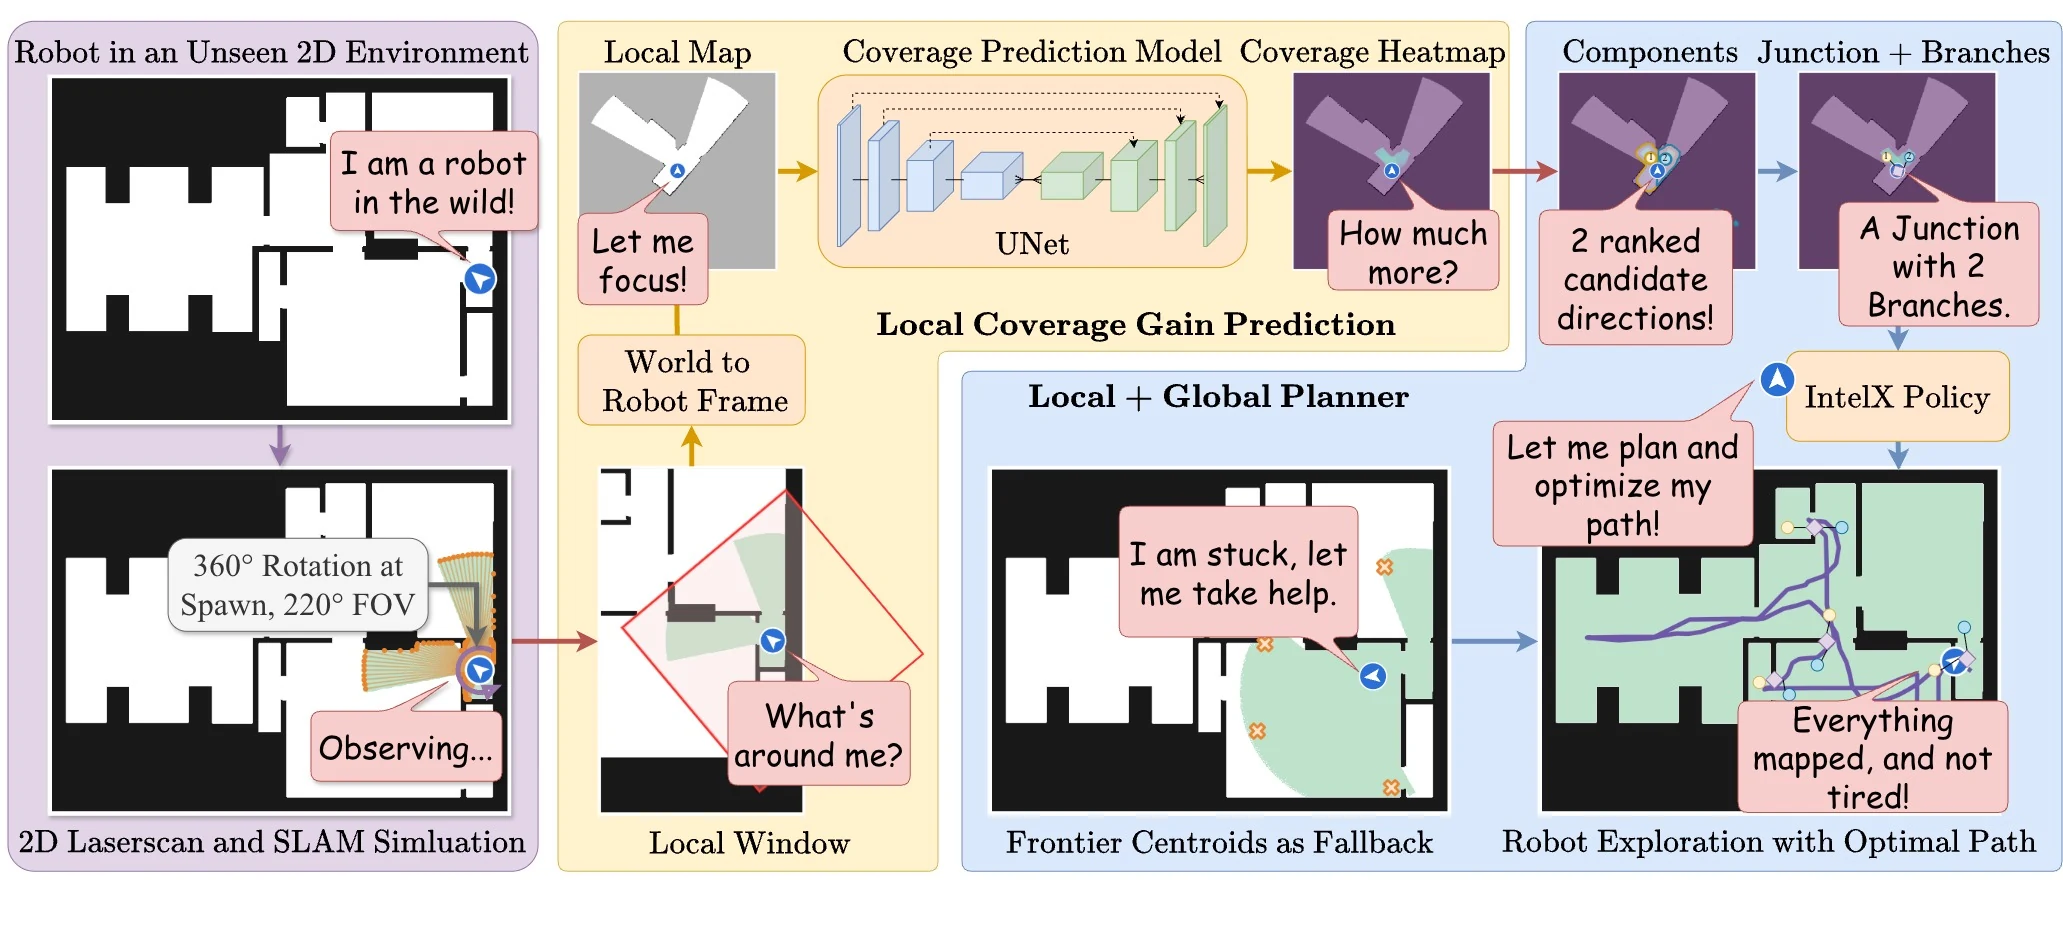
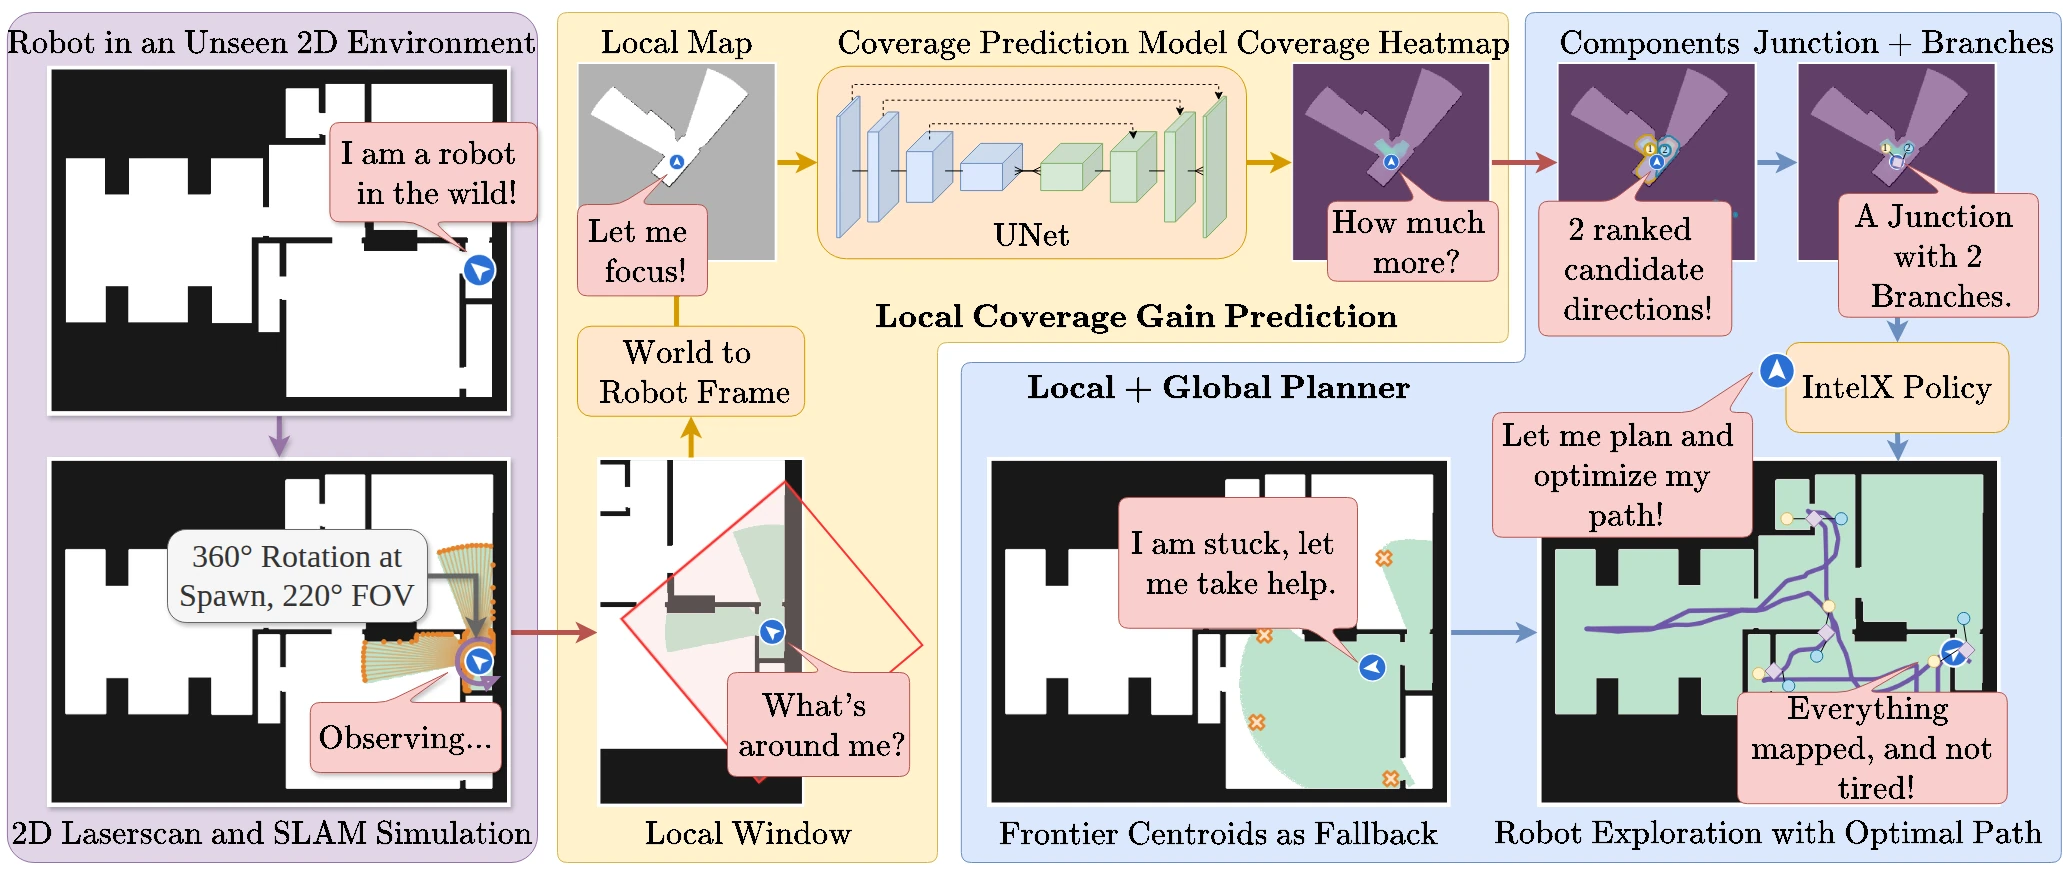
README: the overview figure, animated
assets/intelx-overview.gif opens on the whole figure with pulses running
along its arrows, then dims it and builds it up in pipeline order: each
arrow draws itself from its source, the components it feeds fade in, and
the U-Net's blocks sweep in left to right; it ends on the whole figure
again (1440x612, 20 fps, 18 s, 2.4 MB). Readers who ask for reduced
motion get the still, assets/intelx-overview.webp. Both are the figure
with the bubbles in its LaTeX font and "Simulation" spelled right.

diff --git a/README.md b/README.md
@@ -39,7 +39,10 @@
 <br>
 <br>
 
-<img src="assets/intelx-overview.webp" width="95%" alt="IntelX overview: a robot in an unseen 2D environment builds its map from a 220-degree laser scan; a robot-centred 20 m window of that map goes through a U-Net that returns a coverage-gain heatmap; the heatmap's angular components are candidate directions, and multi-peaked structure marks a junction with branches; the local and global planner commits to those branches, falls back to frontier centroids when it is stuck, and explores the whole floor along a short path.">
+<picture>
+  <source media="(prefers-reduced-motion: reduce)" srcset="assets/intelx-overview.webp">
+  <img src="assets/intelx-overview.gif" width="95%" alt="IntelX overview: a robot in an unseen 2D environment builds its map from a 220-degree laser scan; a robot-centred 20 m window of that map goes through a U-Net that returns a coverage-gain heatmap; the heatmap's angular components are candidate directions, and multi-peaked structure marks a junction with branches; the local and global planner commits to those branches, falls back to frontier centroids when it is stuck, and explores the whole floor along a short path.">
+</picture>
 
 <sub>From the robot's scan and local window to the predicted coverage gain, its candidate directions and junctions, and the explored floor.</sub>
 
